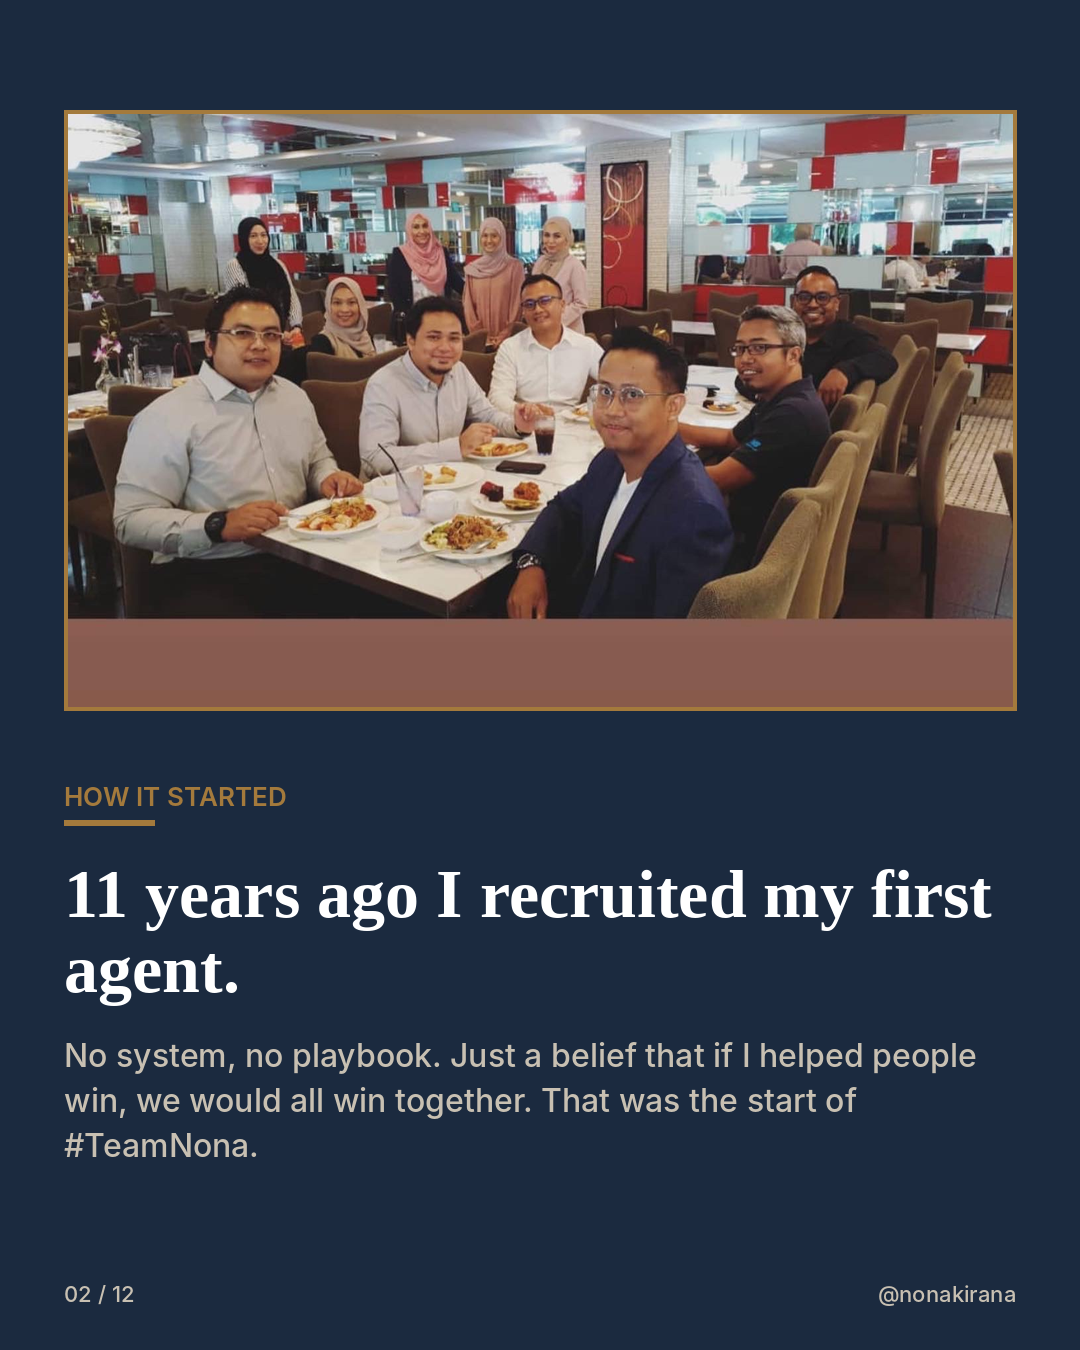
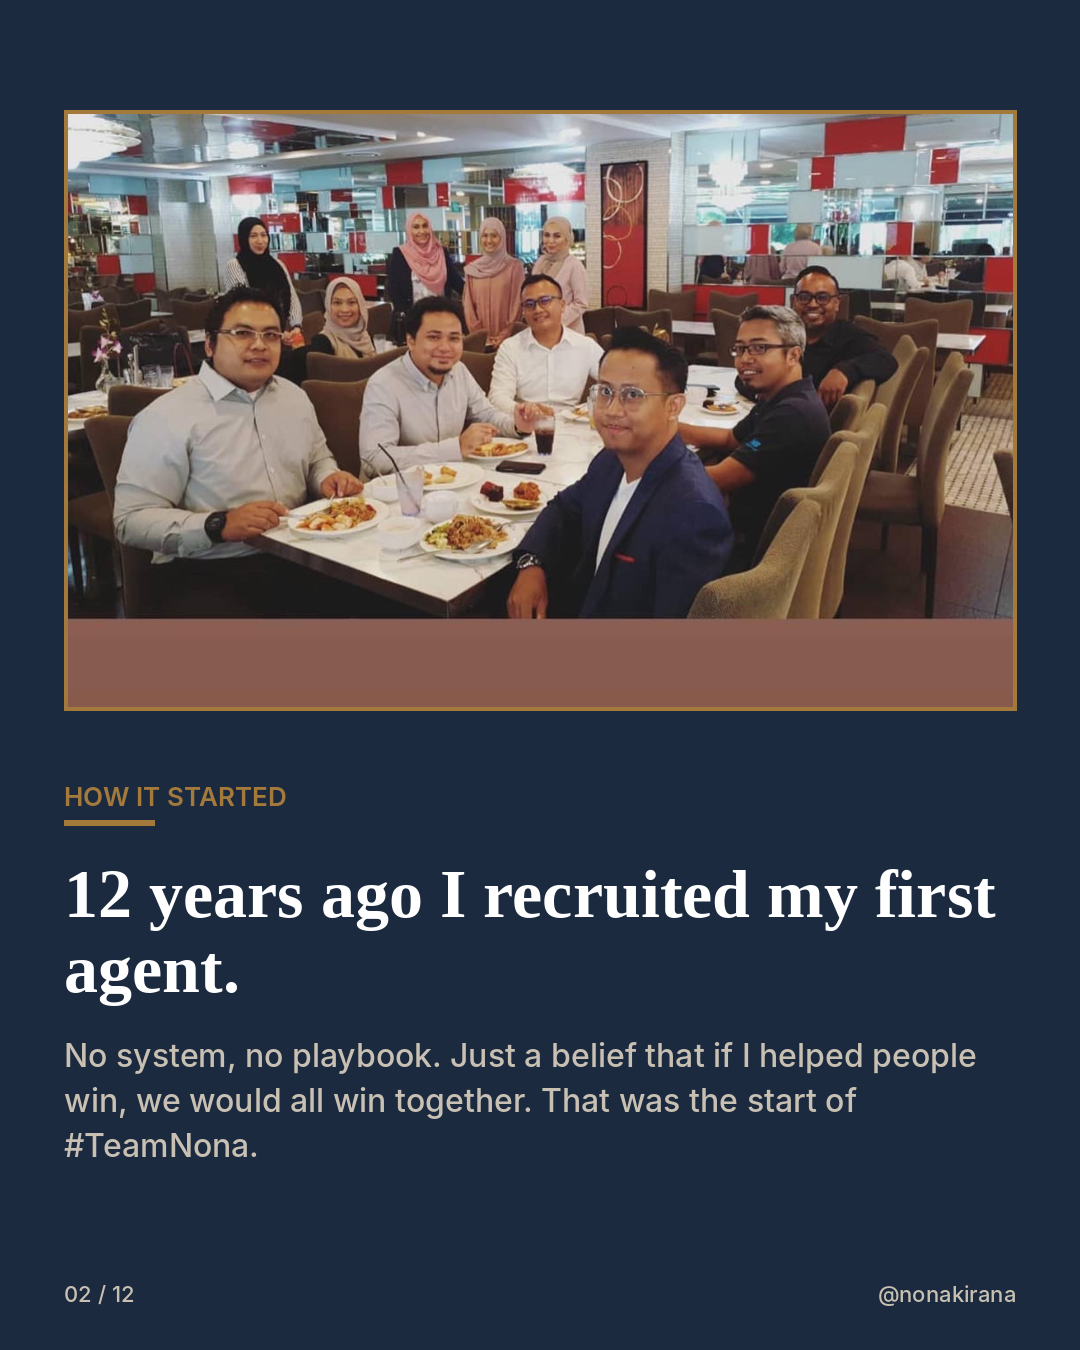
Retitle carousel cover and correct to 12 years of building teams
Claude-Session: https://claude.ai/code/session_016kRuLdfEYNqBubZ7ARvdxi

Changed region(s): [[0.4583, 0.6533, 0.9167, 0.6844], [0.0917, 0.6222, 0.4278, 0.6844]]

diff --git a/recruitment-carousel/make_carousel.py b/recruitment-carousel/make_carousel.py
@@ -1,4 +1,4 @@
-"""Generate the 'Still Recruiting After 11 Years' Instagram carousel.
+"""Generate the '12 Years of Building Teams' Instagram carousel.
 
 Run:  python3 make_carousel.py
 Output: slides/01.png ... slides/12.png  (1080x1350, IG portrait)
@@ -156,19 +156,19 @@ logo(img, "barakah-logo.png", 64, 70, 150, white=True)
 fh = font(SERIF, 84)
 y = 690
 fk = font(SANS_B, 26)
-d.text((64, y), "11 YEARS OF RECRUITING", font=fk, fill=GOLD)
+d.text((64, y), "12 YEARS OF BUILDING TEAMS", font=fk, fill=GOLD)
 sw = "SWIPE  →"
 d.text((W - 64 - d.textlength(sw, font=fk), y), sw, font=fk, fill=GOLD); y += 40
 gold_rule(d, 64, y); y += 32
-for line in ["People come.", "People go.", "I'm still here,", "still building."]:
+for line in ["Still growing.", "Still recruiting.", "Still just", "getting started."]:
     d.text((64, y), line, font=fh, fill=WHITE); y += round(84 * 1.04)
 y += 24
-draw_par(d, "What 11 years of growing teams taught me about people, patience and leading well.", font(SANS, 30), 64, y, W - 128, MUTED, lh=1.35)
+draw_par(d, "12 years of building teams, and what they taught me about leading people forward.", font(SANS, 30), 64, y, W - 128, MUTED, lh=1.35)
 footer(d, 1)
 save(img, 1)
 
 # 02 — how it started
-text_slide(2, "How it started", "11 years ago I recruited my first agent.",
+text_slide(2, "How it started", "12 years ago I recruited my first agent.",
     "No system, no playbook. Just a belief that if I helped people win, we would all win together. That was the start of #TeamNona.",
     photo_strip="teamnona-lunch.jpg", strip_h=600, focus=(0.5, 0.3), hl_size=68)
 
@@ -254,7 +254,7 @@ d.rectangle((64, 90, W - 64, 610), outline=GOLD, width=4)
 y = 680
 d.text((64, y), "I AM STILL RECRUITING", font=font(SANS_B, 26), fill=GOLD); y += 40
 gold_rule(d, 64, y); y += 34
-y = draw_par(d, "11 years in, I still want to see people grow.", font(SERIF, 74), 64, y, W - 128, NAVY, lh=1.08)
+y = draw_par(d, "12 years in, I still want to see people grow.", font(SERIF, 74), 64, y, W - 128, NAVY, lh=1.08)
 y += 26
 y = draw_par(d, "If you are a salesperson looking for a team that will push you, back you and tell you the truth, let's talk. DM me \"GROW\" and I'll reach out.",
              font(SANS, 32), 64, y, W - 128, (90, 90, 90), lh=1.35)

diff --git a/recruitment-carousel/caption.md b/recruitment-carousel/caption.md
@@ -1,6 +1,6 @@
 # Instagram caption
 
-11 years ago, I recruited my first agent. 🤍
+12 years ago, I recruited my first agent. 🤍
 
 No system. No playbook. Just a belief that if I helped people win, we would all win together. That was the start of #TeamNona.
 
@@ -11,7 +11,7 @@ The names changed. The heart didn't.
 
 And here's the honest part: people come and people go. Some stayed a season, some stayed a decade, some left and came back. Every single one of them taught me something, and I'm grateful for all of them.
 
-Eleven years of recruiting and leading taught me:
+Twelve years of building teams taught me:
 
 1⃣ Manage expectations early. Theirs and mine.
 2⃣ Listen, and take feedback constructively. Even when it stings.
@@ -24,13 +24,13 @@ I'm still recruiting. I still want to see people grow. 🌱
 
 If you're a salesperson looking for a team that will push you, back you and tell you the truth, let's talk. DM me "GROW" and I'll reach out.
 
-#BarakahHomes #PropNex #RealEstateSingapore #PropertyAgentSG #RecruitingAgents #TeamLeader #11Years #GrowWithUs #NonaKirana #AbangAbangEjenRumah #KakakKakakEjenRumah
+#BarakahHomes #PropNex #RealEstateSingapore #PropertyAgentSG #RecruitingAgents #TeamLeader #12Years #GrowWithUs #NonaKirana #AbangAbangEjenRumah #KakakKakakEjenRumah
 
 ---
 
 ## Posting notes
 
 - Format: 12 slides, 1080×1350 (4:5 portrait), post in order 01 → 12.
-- Alt text for the first slide: "Nona Kirana sitting with a clapperboard surrounded by the Barakah Homes team in a studio. Text: People come. People go. I'm still here, still building."
+- Alt text for the first slide: "Nona Kirana sitting with a clapperboard surrounded by the Barakah Homes team in a studio. Text: Still growing. Still recruiting. Still just getting started."
 - Handle used on every slide footer: @nonakirana. Change `HANDLE` in `make_carousel.py` if you post from a different account.
 - Suggested first comment: pin the recruitment CTA ("DM me GROW") so it stays visible under the caption.

diff --git a/recruitment-carousel/README.md b/recruitment-carousel/README.md
@@ -1,4 +1,4 @@
-# Recruitment carousel: "11 years of recruiting"
+# Recruitment carousel: "12 years of building teams"
 
 Instagram carousel for Nona Kirana / Barakah Homes on recruitment and team-building lessons.
 
@@ -11,8 +11,8 @@ Instagram carousel for Nona Kirana / Barakah Homes on recruitment and team-build
 
 | # | Slide | Photo |
 |---|-------|-------|
-| 01 | Cover: People come. People go. I'm still here, still building. | Studio shoot with clapperboard |
-| 02 | How it started: first agent 11 years ago | #TeamNona lunch |
+| 01 | Cover: Still growing. Still recruiting. Still just getting started. | Studio shoot with clapperboard |
+| 02 | How it started: first agent 12 years ago | #TeamNona lunch |
 | 03 | The journey: TeamNona → NK & Associates → NKD → NK District → Barakah Homes | Studio group shoot |
 | 04 | The honest part: people come and go | ERA days group photo |
 | 05 | Lesson 01: manage expectations early | Team at the brick-wall venue |
